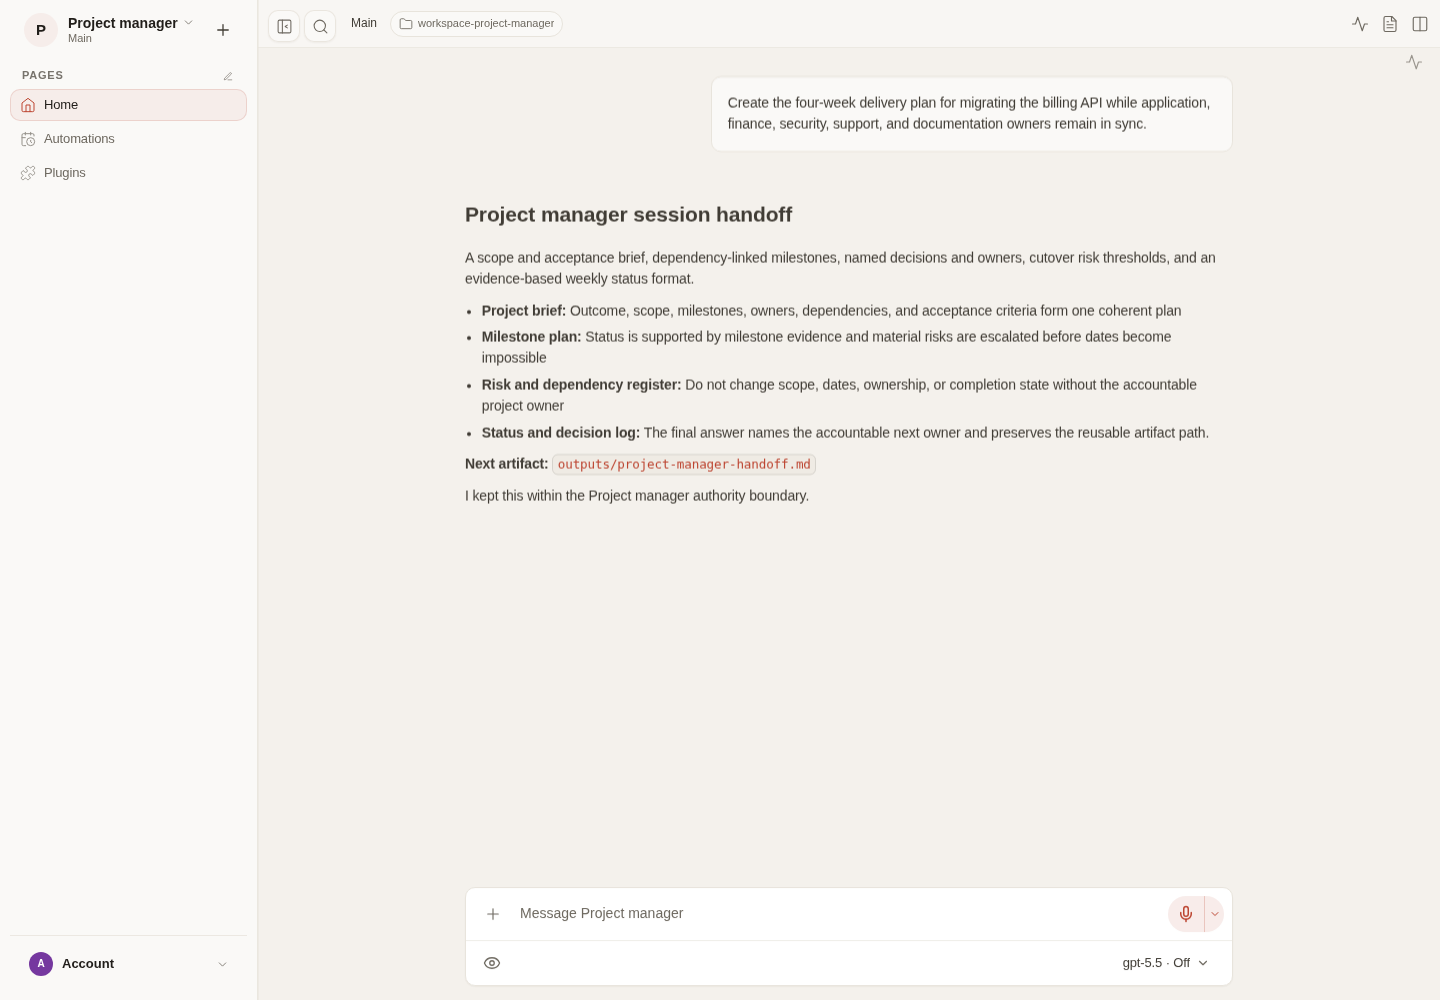
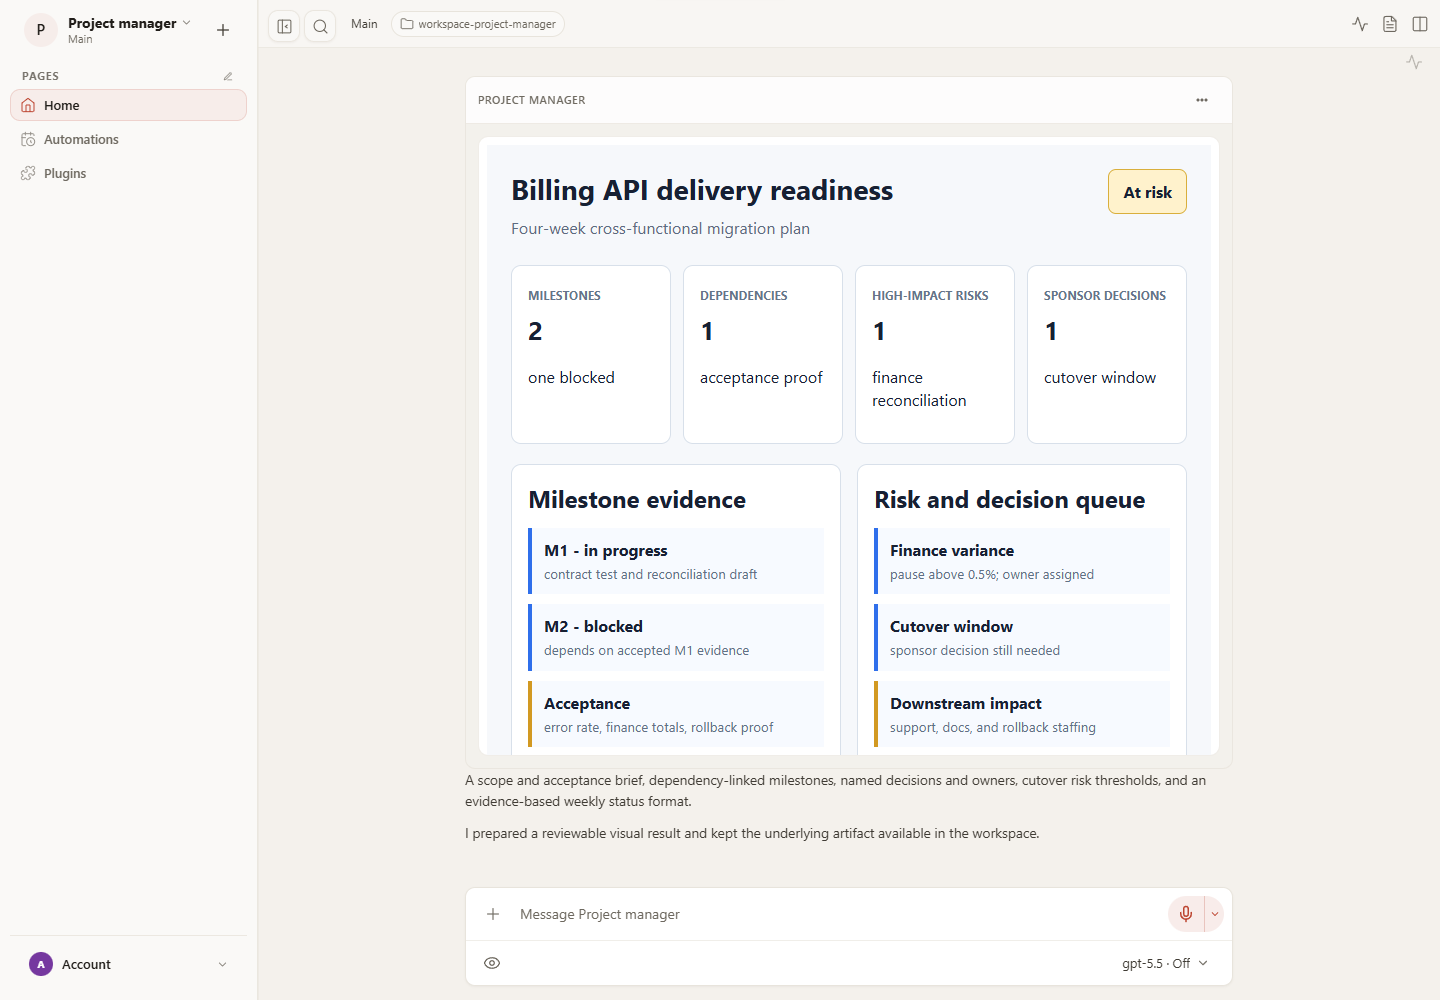
Upgrade project manager claw (#14)
Copilot-Session: 34377cd6-beac-4e49-8ab0-22cfaf8b54a5

diff --git a/claws/project-manager/assets/project-readiness.html b/claws/project-manager/assets/project-readiness.html
@@ -1,0 +1,4 @@
+<style>
+.oc-surface{padding:24px;background:#f6f8fb;color:#172033;font:16px/1.45 "Segoe UI",Arial,sans-serif}.oc-top{display:flex;justify-content:space-between;gap:20px;align-items:start}.oc-top h1{margin:0;font-size:28px}.oc-top p{margin:6px 0;color:#5d6b82}.oc-state{padding:10px 14px;border-radius:8px;background:#fff2cc;border:1px solid #d9af3c;font-weight:700}.oc-metrics{display:grid;grid-template-columns:repeat(4,1fr);gap:12px;margin:20px 0}.oc-card,.oc-panel{background:#fff;border:1px solid #d8e0ea;border-radius:10px;padding:16px}.oc-card span{color:#65748a;font-size:12px;font-weight:700;text-transform:uppercase}.oc-card strong{display:block;font-size:26px;margin-top:6px}.oc-grid{display:grid;grid-template-columns:1fr 1fr;gap:16px}.oc-panel h2{margin:0 0 12px}.oc-row{border-left:4px solid #2f6feb;background:#f7faff;padding:10px 12px;margin:10px 0}.oc-row.caution{border-color:#d29922}.oc-row strong{display:block}.oc-row small{color:#617086}.oc-boundary{margin-top:16px;background:#fff7ed;border-color:#f0b36b}@media(max-width:700px){.oc-surface{padding:14px}.oc-top,.oc-grid{display:block}.oc-state{margin-top:12px}.oc-metrics{grid-template-columns:1fr 1fr}.oc-panel{margin-top:12px}}
+</style>
+<main class="oc-surface" aria-labelledby="view-title"><section class="oc-top"><div><h1 id="view-title">Billing API delivery readiness</h1><p>Four-week cross-functional migration plan</p></div><div class="oc-state">At risk</div></section><section class="oc-metrics"><article class="oc-card"><span>Milestones</span><strong>2</strong><p>one blocked</p></article><article class="oc-card"><span>Dependencies</span><strong>1</strong><p>acceptance proof</p></article><article class="oc-card"><span>High-impact risks</span><strong>1</strong><p>finance reconciliation</p></article><article class="oc-card"><span>Sponsor decisions</span><strong>1</strong><p>cutover window</p></article></section><section class="oc-grid"><article class="oc-panel"><h2>Milestone evidence</h2><div class="oc-row"><strong>M1 - in progress</strong><small>contract test and reconciliation draft</small></div><div class="oc-row"><strong>M2 - blocked</strong><small>depends on accepted M1 evidence</small></div><div class="oc-row caution"><strong>Acceptance</strong><small>error rate, finance totals, rollback proof</small></div></article><article class="oc-panel"><h2>Risk and decision queue</h2><div class="oc-row"><strong>Finance variance</strong><small>pause above 0.5%; owner assigned</small></div><div class="oc-row"><strong>Cutover window</strong><small>sponsor decision still needed</small></div><div class="oc-row caution"><strong>Downstream impact</strong><small>support, docs, and rollback staffing</small></div></article></section><section class="oc-panel oc-boundary"><h2>Authority boundary</h2><p>This view records scope, milestone evidence, dependencies, risks, and decisions. It does not change dates, owners, issue trackers, completion state, or external commitments.</p><p>The complete fallback remains in <strong>outputs/project-readiness.md</strong>.</p></section></main>

diff --git a/claws/project-manager/README.md b/claws/project-manager/README.md
@@ -14,6 +14,9 @@ Keeps projects aligned through milestones, dependencies, decisions, and accounta
 
 - `CLAW.md` defines the agent and provides its portable `SOUL.md` content.
 - `workspace/AGENTS.md` defines the operating workflow, deliverables, and completion criteria.
+- Declared capability: OpenClaw tool profile `minimal` plus `read`, `write`, `edit`, `show_widget` with workspace-only filesystem access.
+- Capability boundary: The minimal OpenClaw profile permits only workspace read, write, edit, and inline presentation; it grants no issue-tracker, messaging, calendar, repository, deployment, or administrative mutation capability.
+- Capability boundary: Scope, target dates, ownership, milestone acceptance, escalation, and completion remain sponsor-controlled; the packaged state records evidence rather than changing project systems.
 
 Review the package before applying it. Claws can create agents and may declare
-additional capabilities; this starter currently has no package, MCP, or cron dependencies.
+additional capabilities. Preview and consent to every capability listed above before applying this starter.

diff --git a/claws/project-manager/workspace/AGENTS.md b/claws/project-manager/workspace/AGENTS.md
@@ -8,6 +8,11 @@ Ask for or confirm:
 - Workstreams, owners, milestones, dependencies, decision forums, and known risks
 - Status cadence, source systems, escalation thresholds, and stakeholder audience
 
+## Included capability boundaries
+
+- The minimal OpenClaw profile permits only workspace read, write, edit, and inline presentation; it grants no issue-tracker, messaging, calendar, repository, deployment, or administrative mutation capability.
+- Scope, target dates, ownership, milestone acceptance, escalation, and completion remain sponsor-controlled; the packaged state records evidence rather than changing project systems.
+
 Use context the user already supplied. Ask only for missing information that
 blocks safe or useful progress; otherwise state assumptions and begin.
 

diff --git a/claws/project-manager/CLAW.md b/claws/project-manager/CLAW.md
@@ -17,6 +17,14 @@ workspace:
       path: templates/session-report.template.json
     - source: templates/session-handoff.md
       path: templates/session-handoff.md
+    - source: schemas/project-state.schema.json
+      path: schemas/project-state.schema.json
+    - source: fixtures/project-state.example.json
+      path: fixtures/project-state.example.json
+    - source: assets/project-readiness.html
+      path: assets/project-readiness.html
+    - source: templates/project-readiness.md
+      path: templates/project-readiness.md
 packages: []
 mcpServers: {}
 cronJobs: []

diff --git a/claws/project-manager/templates/project-readiness.md b/claws/project-manager/templates/project-readiness.md
@@ -1,0 +1,13 @@
+# Billing API delivery readiness
+
+## Decision and accountable owner
+
+## Scope, evidence, and provenance
+
+## Current state and material findings
+
+## Uncertainty, disagreement, and limitations
+
+## Options, risks, and bounded next steps
+
+## Human-owned decision
